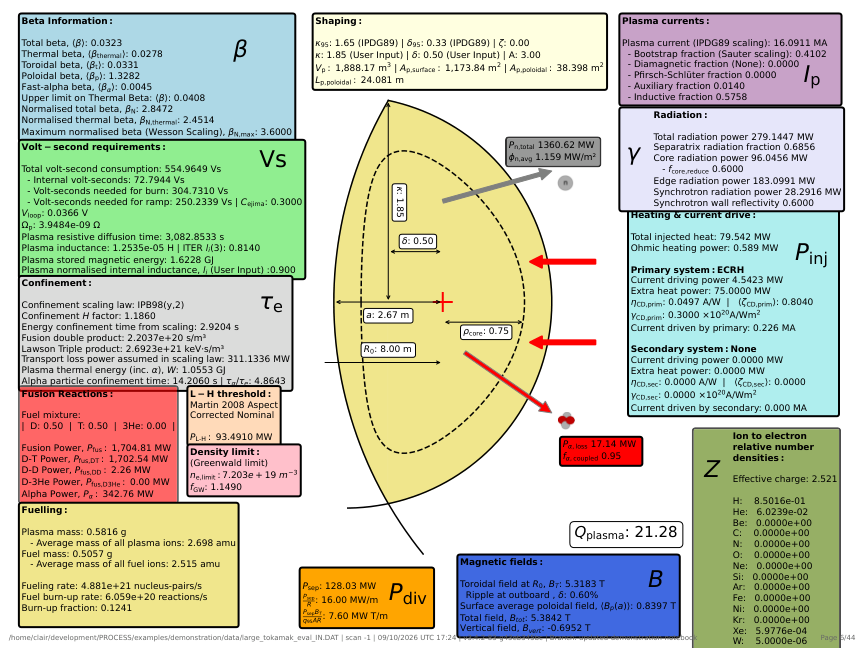
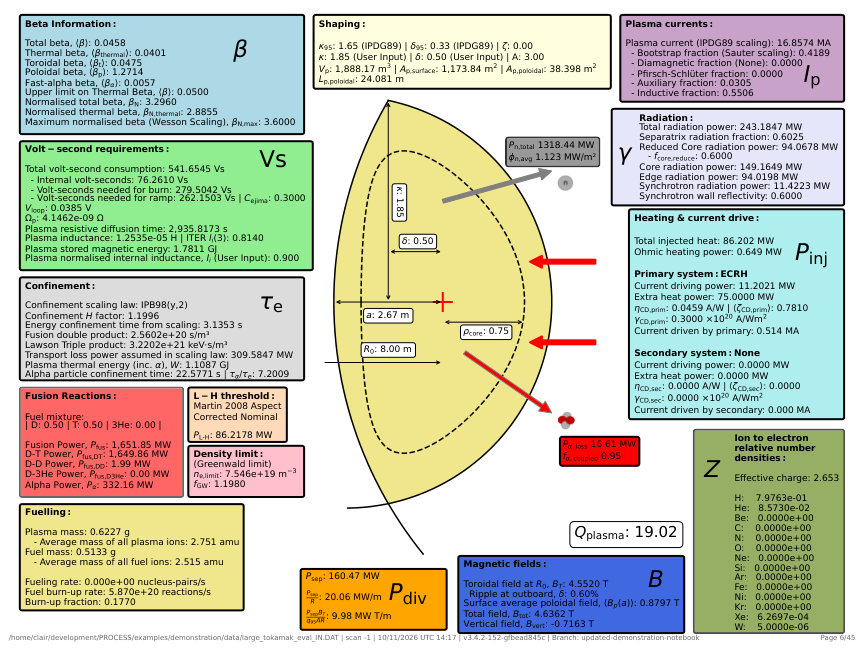
final cahnges

Changed region(s): [[0.0, 0.0, 1.0, 1.0], [0.6875, 0.679, 0.75, 0.7099], [0.625, 0.216, 0.6562, 0.2469]]

diff --git a/examples/demonstration/process_response_demonstration_molab.py b/examples/demonstration/process_response_demonstration_molab.py
@@ -99,18 +99,17 @@ def _(mo):
 
 @app.cell(hide_code=True)
 def _(mo):
-    mo.image(
-        "figures/Slide 7.png",
-        caption="A tokamak is coupled to the systems that convert fusion power into useful electrical output",
-    )
-
-
-@app.cell(hide_code=True)
-def _(mo):
     mo.md(r"""
-    #### Run PROCESS
+    #### Molab instructions
 
-    To initialise the notebook, we can run a normal PROCESS input file.
+    This notebook is run entirely in the browser using Molab.
+
+    - Register an account
+    - Click 'Run it now' button
+    - Click 'Run on server'
+    - Click the play button in the lower right
+
+    This notebook will now run PROCESS and plot the output in different ways.
     """)
 
 
@@ -121,15 +120,6 @@ def _():
     single_run = SingleRun("data/large_tokamak_eval_IN.DAT")
     single_run.run()
     return (single_run,)
-
-
-@app.cell(hide_code=True)
-def _(mo):
-    mo.md(r"""
-    #### Generate the standard summary
-
-    PROCESS can generate a summary PDF which contains data and plots to describe the fusion power plant we have designed. We call this here to generate figures for the notebook.
-    """)
 
 
 @app.cell
@@ -147,19 +137,11 @@ def _():
     file_handle = pymupdf.open(summary_file)
     for page_no in [
         5,
-        23,
+        25,
     ]:
         page = file_handle[page_no]
         page_img = page.get_pixmap()
         page_img.save(f"figures/summary_page_{page_no}.png")
-
-
-@app.cell
-def _(mo):
-    mo.image(
-        "figures/summary_page_5.png",
-        caption="Integrated plasma, magnetic and systems quantities from one PROCESS design.",
-    )
 
 
 @app.cell(hide_code=True)
@@ -180,6 +162,14 @@ def _(mo):
 
     A change to one part of the reactor can therefore propagate through many other systems.
     """)
+
+
+@app.cell
+def _(mo):
+    mo.image(
+        "figures/summary_page_5.png",
+        caption="Integrated plasma, magnetic and systems quantities from one PROCESS design.",
+    )
 
 
 @app.cell(hide_code=True)
@@ -206,8 +196,16 @@ def _(mo):
 @app.cell
 def _(mo):
     mo.image(
-        "figures/summary_page_23.png",
-        caption="Poloidal and toroidal cross-sections of the tokamak showing major structural and magnetic systems.",
+        "figures/summary_page_25.png",
+        caption="Poloidal cross-section of the tokamak showing major structural and magnetic systems.",
+    )
+
+
+@app.cell
+def _(mo):
+    mo.image(
+        "figures/summary_page_26.png",
+        caption="Toroidal cross-section of the tokamak showing major structural and magnetic systems.",
     )
 
 
@@ -742,7 +740,7 @@ def _(PLASMA_INPUT_FILE):
     REBUILD_IMPURITY_SOLUTIONS = False
     REBUILD_IMPURITY_MAPS = False
     PRECOMPUTE_IMPURITY_MAPS = True
-    IMPURITY_WORKERS = 2
+    IMPURITY_WORKERS = 8
     return (
         IMPURITY_CONTROLS,
         IMPURITY_INPUT_FILE,
@@ -932,6 +930,9 @@ def _(mo):
     ### PROCESS
 
     🔗 **PROCESS source code:** [github.com/ukaea/PROCESS](https\://github.com/ukaea/PROCESS)
+
+    ### Bluemira
+    🔗 **Bluemira source code:** [github.com/Fusion-Power-Plant-Framework/bluemira](https\://github.com/Fusion-Power-Plant-Framework/bluemira)
 
     ### Fusion Training Program
 
